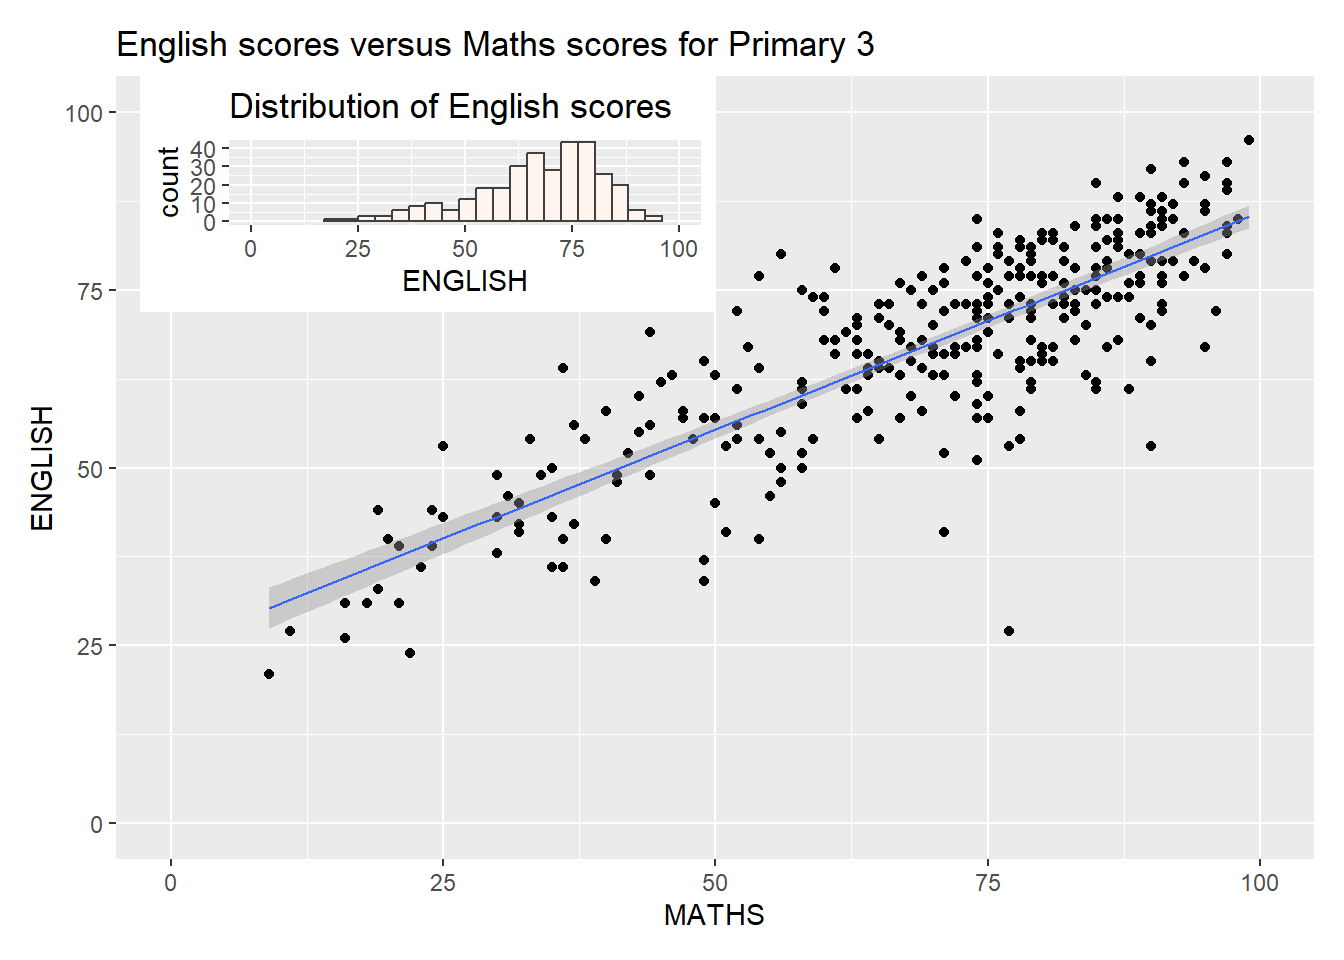
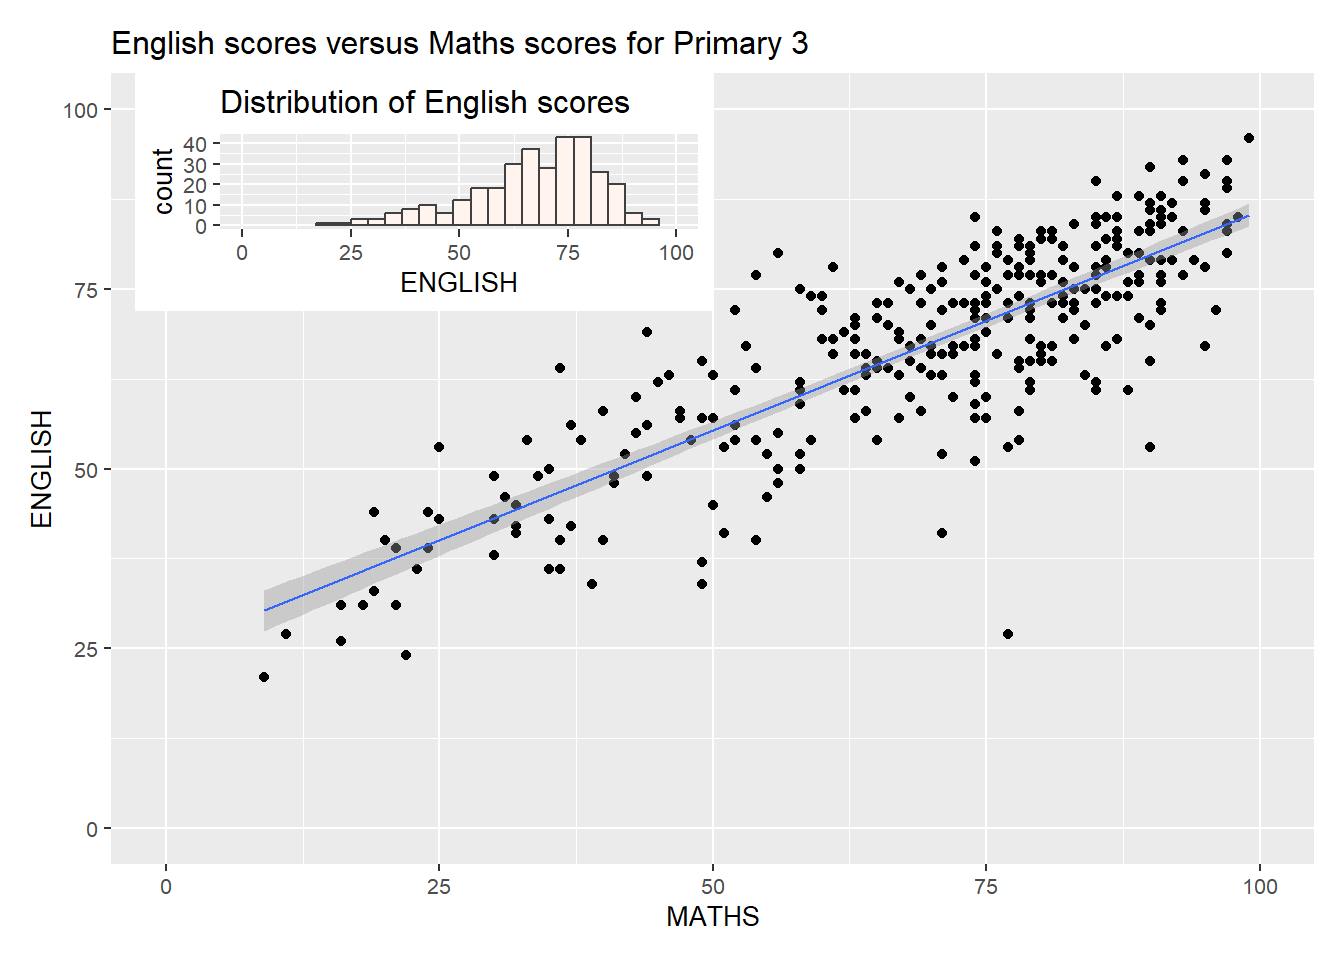
update hands-on ex2

diff --git a/_site/Hands-on_Ex/Hands-on_Ex2/Hands-on_Ex2.html b/_site/Hands-on_Ex/Hands-on_Ex2/Hands-on_Ex2.html
@@ -270,7 +270,7 @@ pre > code.sourceCode > span > a:first-child::before { text-decoration: underlin
     <div>
     <div class="quarto-title-meta-heading">Modified</div>
     <div class="quarto-title-meta-contents">
-      <p class="date-modified">January 20, 2024</p>
+      <p class="date-modified">January 21, 2024</p>
     </div>
   </div>
     
@@ -550,7 +550,8 @@ pre > code.sourceCode > span > a:first-child::before { text-decoration: underlin
 <span id="cb11-5"><a href="#cb11-5" aria-hidden="true" tabindex="-1"></a>                 <span class="at">color=</span><span class="st">"grey25"</span>,</span>
 <span id="cb11-6"><a href="#cb11-6" aria-hidden="true" tabindex="-1"></a>                 <span class="at">fill=</span><span class="st">"slategray2"</span>)<span class="sc">+</span></span>
 <span id="cb11-7"><a href="#cb11-7" aria-hidden="true" tabindex="-1"></a>  <span class="fu">coord_cartesian</span>(<span class="at">xlim=</span><span class="fu">c</span>(<span class="dv">0</span>,<span class="dv">100</span>))<span class="sc">+</span></span>
-<span id="cb11-8"><a href="#cb11-8" aria-hidden="true" tabindex="-1"></a>  <span class="fu">ggtitle</span>(<span class="st">"Distribution of Maths scores"</span>)</span></code><button title="Copy to Clipboard" class="code-copy-button"><i class="bi"></i></button></pre></div>
+<span id="cb11-8"><a href="#cb11-8" aria-hidden="true" tabindex="-1"></a>  <span class="fu">ggtitle</span>(<span class="st">"Distribution of Maths scores"</span>)<span class="sc">+</span></span>
+<span id="cb11-9"><a href="#cb11-9" aria-hidden="true" tabindex="-1"></a>  <span class="fu">theme</span>(<span class="at">text =</span> <span class="fu">element_text</span>(<span class="at">size =</span> <span class="dv">10</span>))</span></code><button title="Copy to Clipboard" class="code-copy-button"><i class="bi"></i></button></pre></div>
 </div>
 </div>
 </div>
@@ -568,14 +569,15 @@ pre > code.sourceCode > span > a:first-child::before { text-decoration: underlin
 </div>
 <div id="tabset-8-2" class="tab-pane" role="tabpanel" aria-labelledby="tabset-8-2-tab">
 <div class="cell">
-<div class="sourceCode cell-code" id="cb12"><pre class="sourceCode r code-with-copy"><code class="sourceCode r"><span id="cb12-1"><a href="#cb12-1" aria-hidden="true" tabindex="-1"></a>p1 <span class="sc">&gt;-</span> <span class="fu">ggplot</span>(<span class="at">data=</span>exam_data,</span>
+<div class="sourceCode cell-code" id="cb12"><pre class="sourceCode r code-with-copy"><code class="sourceCode r"><span id="cb12-1"><a href="#cb12-1" aria-hidden="true" tabindex="-1"></a>p2 <span class="ot">&lt;-</span> <span class="fu">ggplot</span>(<span class="at">data=</span>exam_data,</span>
 <span id="cb12-2"><a href="#cb12-2" aria-hidden="true" tabindex="-1"></a>             <span class="fu">aes</span>(<span class="at">x=</span>ENGLISH))<span class="sc">+</span></span>
 <span id="cb12-3"><a href="#cb12-3" aria-hidden="true" tabindex="-1"></a>  <span class="fu">geom_histogram</span>(<span class="at">bins=</span><span class="dv">20</span>,</span>
 <span id="cb12-4"><a href="#cb12-4" aria-hidden="true" tabindex="-1"></a>                 <span class="at">boundary=</span><span class="dv">100</span>,</span>
 <span id="cb12-5"><a href="#cb12-5" aria-hidden="true" tabindex="-1"></a>                 <span class="at">color=</span><span class="st">"grey25"</span>,</span>
 <span id="cb12-6"><a href="#cb12-6" aria-hidden="true" tabindex="-1"></a>                 <span class="at">fill=</span><span class="st">"seashell"</span>)<span class="sc">+</span></span>
 <span id="cb12-7"><a href="#cb12-7" aria-hidden="true" tabindex="-1"></a>  <span class="fu">coord_cartesian</span>(<span class="at">xlim=</span><span class="fu">c</span>(<span class="dv">0</span>,<span class="dv">100</span>))<span class="sc">+</span></span>
-<span id="cb12-8"><a href="#cb12-8" aria-hidden="true" tabindex="-1"></a>  <span class="fu">ggtitle</span>(<span class="st">"Distribution of English scores"</span>)</span></code><button title="Copy to Clipboard" class="code-copy-button"><i class="bi"></i></button></pre></div>
+<span id="cb12-8"><a href="#cb12-8" aria-hidden="true" tabindex="-1"></a>  <span class="fu">ggtitle</span>(<span class="st">"Distribution of English scores"</span>)<span class="sc">+</span></span>
+<span id="cb12-9"><a href="#cb12-9" aria-hidden="true" tabindex="-1"></a>  <span class="fu">theme</span>(<span class="at">text =</span> <span class="fu">element_text</span>(<span class="at">size =</span> <span class="dv">10</span>))</span></code><button title="Copy to Clipboard" class="code-copy-button"><i class="bi"></i></button></pre></div>
 </div>
 </div>
 </div>
@@ -601,7 +603,8 @@ pre > code.sourceCode > span > a:first-child::before { text-decoration: underlin
 <span id="cb13-6"><a href="#cb13-6" aria-hidden="true" tabindex="-1"></a>              <span class="at">size=</span><span class="fl">0.5</span>)<span class="sc">+</span></span>
 <span id="cb13-7"><a href="#cb13-7" aria-hidden="true" tabindex="-1"></a>  <span class="fu">coord_cartesian</span>(<span class="at">xlim=</span><span class="fu">c</span>(<span class="dv">0</span>,<span class="dv">100</span>),</span>
 <span id="cb13-8"><a href="#cb13-8" aria-hidden="true" tabindex="-1"></a>                  <span class="at">ylim=</span><span class="fu">c</span>(<span class="dv">0</span>,<span class="dv">100</span>))<span class="sc">+</span></span>
-<span id="cb13-9"><a href="#cb13-9" aria-hidden="true" tabindex="-1"></a>  <span class="fu">ggtitle</span>(<span class="st">"English scores versus Maths scores for Primary 3"</span>)</span></code><button title="Copy to Clipboard" class="code-copy-button"><i class="bi"></i></button></pre></div>
+<span id="cb13-9"><a href="#cb13-9" aria-hidden="true" tabindex="-1"></a>  <span class="fu">ggtitle</span>(<span class="st">"English scores versus Maths scores for Primary 3"</span>)<span class="sc">+</span></span>
+<span id="cb13-10"><a href="#cb13-10" aria-hidden="true" tabindex="-1"></a>  <span class="fu">theme</span>(<span class="at">text =</span> <span class="fu">element_text</span>(<span class="at">size =</span> <span class="dv">10</span>))</span></code><button title="Copy to Clipboard" class="code-copy-button"><i class="bi"></i></button></pre></div>
 </div>
 </div>
 </div>
@@ -651,7 +654,7 @@ pre > code.sourceCode > span > a:first-child::before { text-decoration: underlin
 <div id="tabset-11-1" class="tab-pane active" role="tabpanel" aria-labelledby="tabset-11-1-tab">
 <div class="cell">
 <div class="cell-output-display">
-<p><img src="Hands-on_Ex2_files/figure-html/unnamed-chunk-24-1.png" class="img-fluid" width="672"></p>
+<p><img src="Hands-on_Ex2_files/figure-html/unnamed-chunk-24-1.png" class="img-fluid" width="864"></p>
 </div>
 </div>
 </div>
@@ -673,7 +676,7 @@ pre > code.sourceCode > span > a:first-child::before { text-decoration: underlin
 <div id="tabset-12-1" class="tab-pane active" role="tabpanel" aria-labelledby="tabset-12-1-tab">
 <div class="cell">
 <div class="cell-output-display">
-<p><img src="Hands-on_Ex2_files/figure-html/unnamed-chunk-26-1.png" class="img-fluid" width="672"></p>
+<p><img src="Hands-on_Ex2_files/figure-html/unnamed-chunk-26-1.png" class="img-fluid" width="864"></p>
 </div>
 </div>
 </div>
@@ -722,7 +725,7 @@ pre > code.sourceCode > span > a:first-child::before { text-decoration: underlin
 <div class="sourceCode cell-code" id="cb18"><pre class="sourceCode r code-with-copy"><code class="sourceCode r"><span id="cb18-1"><a href="#cb18-1" aria-hidden="true" tabindex="-1"></a>patchwork <span class="ot">&lt;-</span> (p1<span class="sc">/</span>p2)<span class="sc">|</span>p3</span>
 <span id="cb18-2"><a href="#cb18-2" aria-hidden="true" tabindex="-1"></a>patchwork <span class="sc">&amp;</span> <span class="fu">theme_economist</span>()</span></code><button title="Copy to Clipboard" class="code-copy-button"><i class="bi"></i></button></pre></div>
 <div class="cell-output-display">
-<p><img src="Hands-on_Ex2_files/figure-html/unnamed-chunk-30-1.png" class="img-fluid" width="672"></p>
+<p><img src="Hands-on_Ex2_files/figure-html/unnamed-chunk-30-1.png" class="img-fluid" width="1440"></p>
 </div>
 </div>
 </div>

diff --git a/_site/index.html b/_site/index.html
@@ -243,7 +243,27 @@ ul.task-list li input[type="checkbox"] {
 
 <div class="quarto-listing quarto-listing-container-grid" id="listing-latest-updates">
 <div class="list grid quarto-listing-cols-3">
-<div class="g-col-1" data-index="0" data-listing-date-sort="1705075200000" data-listing-file-modified-sort="1705846713034" data-listing-date-modified-sort="1705846713000" data-listing-reading-time-sort="34">
+<div class="g-col-1" data-index="0" data-listing-date-sort="1705075200000" data-listing-file-modified-sort="1705847527889" data-listing-date-modified-sort="1705847527000" data-listing-reading-time-sort="15">
+<a href="./Hands-on_Ex/Hands-on_Ex2/Hands-on_Ex2.html" class="quarto-grid-link">
+<div class="quarto-grid-item card h-100 card-left">
+<p class="card-img-top"><img src="Hands-on_Ex\Hands-on_Ex2\Hands-on_Ex2_files\figure-html\unnamed-chunk-4-1.png" style="height: 150px;"  class="thumbnail-image card-img"/></p>
+<div class="card-body post-contents">
+<h5 class="no-anchor card-title listing-title">
+Hands-on Exercise 2
+</h5>
+<div class="listing-reading-time card-text text-muted">
+15 min
+</div>
+<div class="card-attribution card-text-small end">
+<div class="listing-date">
+Jan 13, 2024
+</div>
+</div>
+</div>
+</div>
+</a>
+</div>
+<div class="g-col-1" data-index="1" data-listing-date-sort="1705075200000" data-listing-file-modified-sort="1705846713034" data-listing-date-modified-sort="1705846713000" data-listing-reading-time-sort="34">
 <a href="./Take-home_Ex/Take-home_Ex1/Take-home_Ex1.html" class="quarto-grid-link">
 <div class="quarto-grid-item card h-100 card-left">
 <p class="card-img-top"><img src="Take-home_Ex\Take-home_Ex1\Take-home_Ex1_files\figure-html\unnamed-chunk-20-1.png" style="height: 150px;"  class="thumbnail-image card-img"/></p>
@@ -263,7 +283,7 @@ Jan 13, 2024
 </div>
 </a>
 </div>
-<div class="g-col-1" data-index="1" data-listing-date-sort="1705680000000" data-listing-file-modified-sort="1705740713897" data-listing-date-modified-sort="1705740713000" data-listing-reading-time-sort="1">
+<div class="g-col-1" data-index="2" data-listing-date-sort="1705680000000" data-listing-file-modified-sort="1705740713897" data-listing-date-modified-sort="1705740713000" data-listing-reading-time-sort="1">
 <a href="./In-class_Ex/In-class_Ex2/In-class_Ex2.html" class="quarto-grid-link">
 <div class="quarto-grid-item card h-100 card-left">
 <div class="listing-item-img-placeholder card-img-top" style="height: 150px;">&nbsp;</div>
@@ -277,26 +297,6 @@ In-class Exercise 2
 <div class="card-attribution card-text-small end">
 <div class="listing-date">
 Jan 20, 2024
-</div>
-</div>
-</div>
-</div>
-</a>
-</div>
-<div class="g-col-1" data-index="2" data-listing-date-sort="1705075200000" data-listing-file-modified-sort="1705739877072" data-listing-date-modified-sort="1705739877000" data-listing-reading-time-sort="15">
-<a href="./Hands-on_Ex/Hands-on_Ex2/Hands-on_Ex2.html" class="quarto-grid-link">
-<div class="quarto-grid-item card h-100 card-left">
-<p class="card-img-top"><img src="Hands-on_Ex\Hands-on_Ex2\Hands-on_Ex2_files\figure-html\unnamed-chunk-4-1.png" style="height: 150px;"  class="thumbnail-image card-img"/></p>
-<div class="card-body post-contents">
-<h5 class="no-anchor card-title listing-title">
-Hands-on Exercise 2
-</h5>
-<div class="listing-reading-time card-text text-muted">
-15 min
-</div>
-<div class="card-attribution card-text-small end">
-<div class="listing-date">
-Jan 13, 2024
 </div>
 </div>
 </div>
